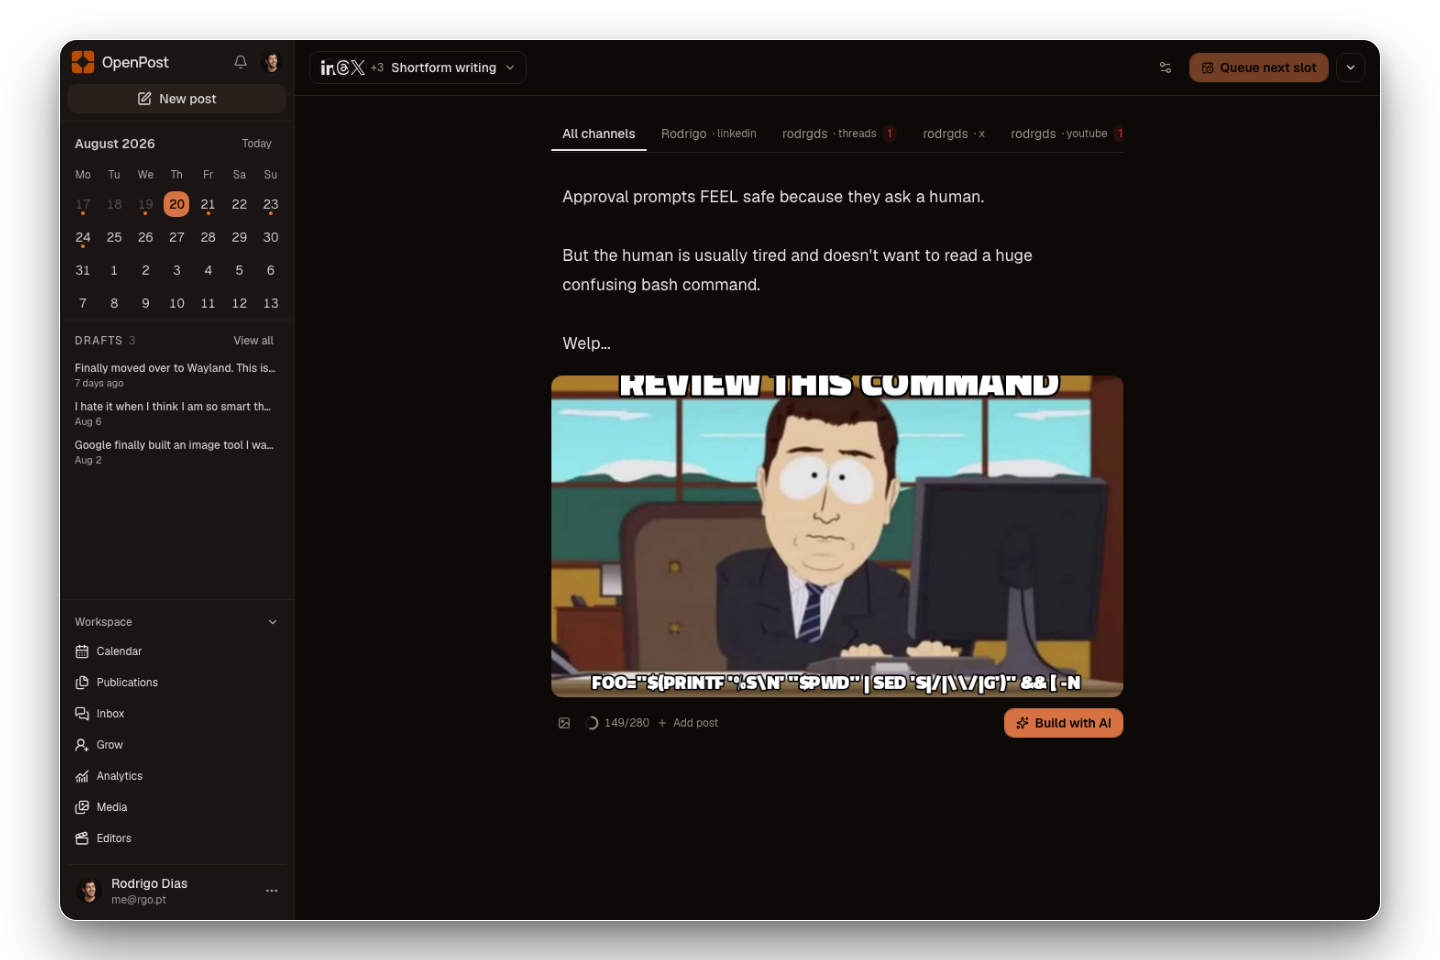
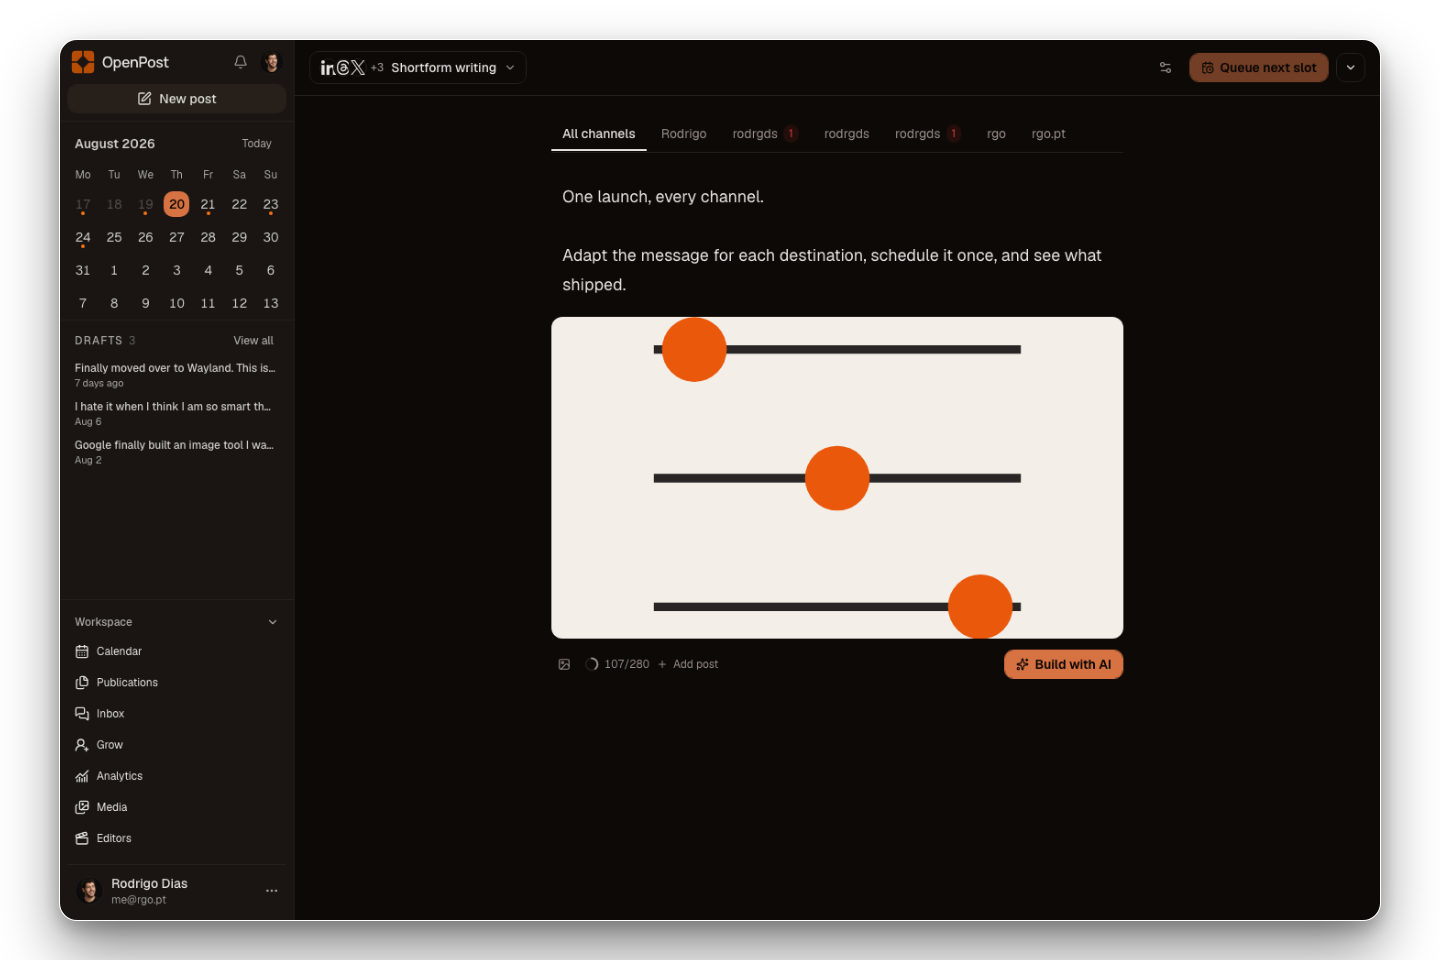
docs(product): refine canonical product screenshots

Changed region(s): [[0.375, 0.25, 0.7812, 0.7812], [0.375, 0.1875, 0.6875, 0.2188], [0.5, 0.125, 0.7812, 0.1562]]

diff --git a/e2e-app/product-screenshots.spec.ts b/e2e-app/product-screenshots.spec.ts
@@ -1043,13 +1043,13 @@ test.describe("product screenshot capture", () => {
     await page
       .locator("#post-textarea-0")
       .fill(
-        "Approval prompts FEEL safe because they ask a human.\n\nBut the human is usually tired and doesn't want to read a huge confusing bash command.\n\nWelp...",
+        "One launch, every channel.\n\nAdapt the message for each destination, schedule it once, and see what shipped.",
       );
     const composer = page.getByTestId("text-thread-composer-content");
     await composer.getByRole("button", { name: "Add media" }).click();
     const mediaPicker = page.getByRole("dialog");
     await mediaPicker.getByRole("tab", { name: "Library" }).click();
-    await mediaPicker.getByRole("button", { name: "Select command-review.png" }).click();
+    await mediaPicker.getByRole("button", { name: "Select openpost-workflow.png" }).click();
     await mediaPicker.getByRole("button", { name: "Add media", exact: true }).click();
     await expect(composer.getByRole("button", { name: "Remove media" })).toBeVisible();
     await expect(page.getByTestId("composer-primary-delivery-action")).toBeVisible();
@@ -1108,12 +1108,17 @@ test.describe("product screenshot capture", () => {
     const imageEditorStage = page.getByTestId("image-editor-stage");
     await expect(imageEditorStage).toBeVisible();
     await page.getByRole("textbox", { name: "Design title" }).fill("Launch carousel");
-    const imageHeadline = page.getByRole("treeitem", {
+    const originalImageHeadline = page.getByRole("treeitem", {
       name: /How to get it done, text/u,
     });
-    await imageHeadline.click();
+    await originalImageHeadline.click();
     const imageProperties = page.locator(".image-editor-inspector");
+    await imageProperties.getByRole("textbox", { name: "Layer name" }).fill("Publish clearly.");
+    await imageProperties.getByRole("textbox", { name: "Layer name" }).press("Tab");
     await imageProperties.locator("textarea").fill("Publish clearly.");
+    const imageHeadline = page.getByRole("treeitem", {
+      name: /Publish clearly\., text/u,
+    });
     const imageSubline = page.getByRole("treeitem", {
       name: /A focused five-page walkthrough\., text/u,
     });
@@ -1164,6 +1169,12 @@ test.describe("product screenshot capture", () => {
     await videoTextSpans.nth(1).fill("Publish clearly.");
     await videoTextSpans.nth(2).fill("Create once. Adapt each version.");
     await videoTextSpans.nth(2).press("Tab");
+    await videoInspector.locator(".template-strip").evaluate((element) => {
+      const eventTemplate = element.querySelector<HTMLElement>('button[aria-label="Apply Event"]');
+      if (!eventTemplate) throw new Error("Event text template is missing");
+      element.scrollLeft +=
+        eventTemplate.getBoundingClientRect().left - element.getBoundingClientRect().left;
+    });
     await expect(page.locator("[data-program-monitor]")).toBeVisible();
     await capture(page, "video-editor-dark.png", [
       page.locator("[data-program-monitor]"),
